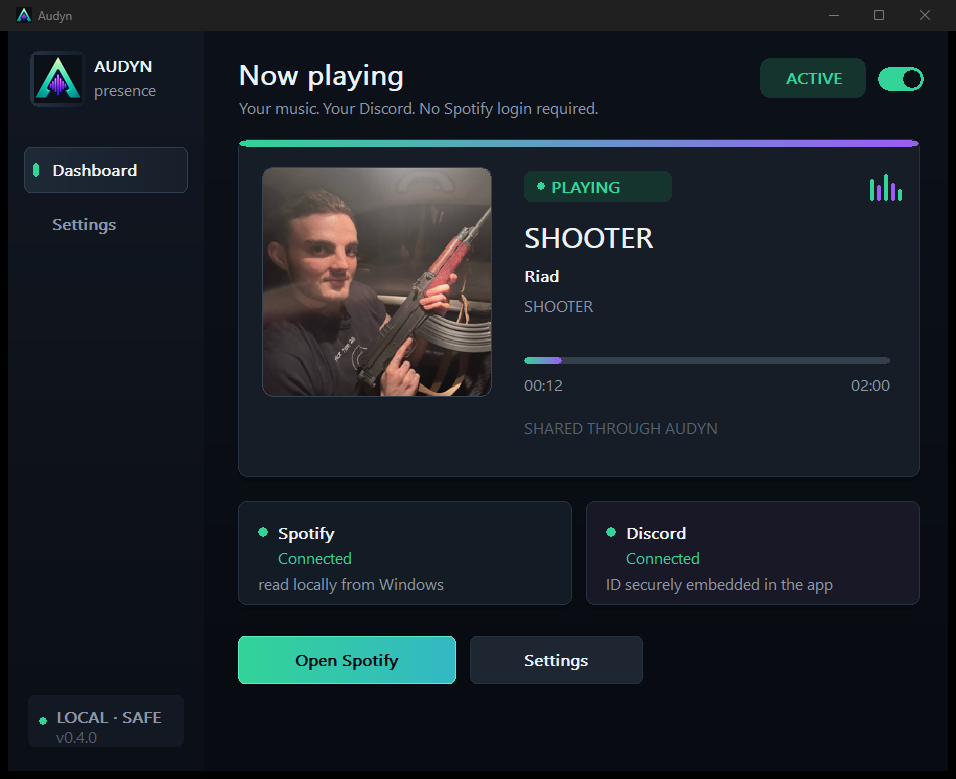
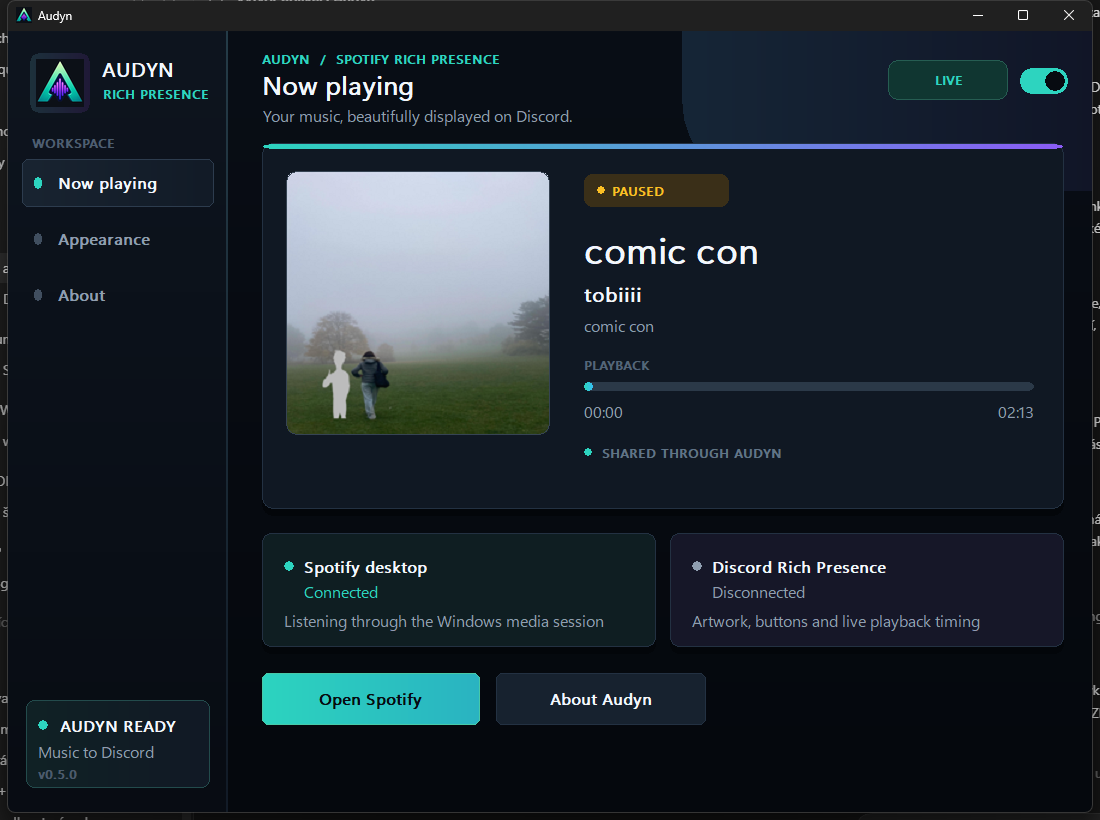
Add files via upload

diff --git a/PRIVACY.md b/PRIVACY.md
@@ -1,0 +1,50 @@
+# Audyn Privacy Notice
+
+Effective for Audyn 0.5.0 and later.
+
+Audyn is designed as a local-first Spotify presence companion. It does not create an Audyn account and does not connect a Spotify account to a Discord account.
+
+## Data Audyn reads locally
+
+Audyn reads the Now Playing information exposed by the Spotify desktop application through Windows Media Session. This can include the track title, artist, album, playback state, playback position, duration, and local thumbnail.
+
+This information is processed in memory so Audyn can draw its interface and prepare Discord Rich Presence. Audyn does not request access to a Spotify password, Spotify access token, Discord password, Discord token, email address, playlists, private messages, friends, payment information, or account settings.
+
+## Discord communication
+
+Rich Presence is sent to the Discord desktop application through Discord's local RPC named pipe. Audyn does not call the Discord account API and does not operate a remote presence server.
+
+The displayed Presence can contain the current track title, artist, album, playback time, a public artwork URL, and fixed buttons. Visibility to other Discord users is controlled by Discord and by the Presence controls in Audyn.
+
+## Optional online artwork lookup
+
+When **Optional cover lookup** is enabled, Audyn sends the current artist and track title to Deezer's public search endpoint over HTTPS. Audyn uses the response only to find a public album-cover URL. Results are accepted only from the approved `dzcdn.net` image domain and only after metadata matching.
+
+This feature can be disabled at any time in **Privacy center**. With it disabled, Audyn continues to work but Discord may show the Audyn artwork instead of the album cover.
+
+## Advertising metadata
+
+Audyn attempts to detect advertisement and non-music sessions before any artwork lookup or Discord publication. When an advertisement is detected, Rich Presence is cleared.
+
+## Local storage
+
+Audyn stores settings, operational diagnostics, and cached artwork under:
+
+```text
+%LOCALAPPDATA%\Audyn\
+```
+
+Version 0.5.0 does not write track titles, artist names, or album names to diagnostic logs. Logs are size-limited and rotated. Cached covers can be cleared immediately or automatically when Audyn exits.
+
+## Telemetry and sale of data
+
+Audyn contains no analytics SDK, advertising SDK, crash-upload service, user profiling, or Audyn-operated backend. Audyn does not sell personal data.
+
+## User controls
+
+Users can disable Rich Presence, hide individual metadata fields, disable the online cover lookup, hide Presence while paused, clear cached covers, or remove all Audyn local data by deleting `%LOCALAPPDATA%\Audyn` after closing the application.
+
+## Third-party services
+
+Spotify, Discord, Deezer, Microsoft, and GitHub operate under their own terms and privacy notices. Audyn is an independent project and is not affiliated with or endorsed by those companies.
+

diff --git a/MICROSOFT-TRUST.md b/MICROSOFT-TRUST.md
@@ -1,0 +1,46 @@
+# Microsoft Trust and Distribution Status
+
+## Current status
+
+Audyn 0.5.0 is prepared for Authenticode signing and Microsoft Store submission, but a build must not be described as **Microsoft certified**, **Microsoft signed**, or **verified publisher** unless that exact build has completed the corresponding external process.
+
+The application checks its own executable signature and displays the result in **Privacy center**:
+
+- **AUTHENTICODE VERIFIED** means Windows validated a trusted publisher signature on that executable;
+- **SIGNING PENDING** means the executable is not currently trusted as a signed publisher build.
+
+A SHA-256 checksum verifies file integrity. It does not replace a trusted publisher signature and does not constitute Microsoft certification.
+
+## Recommended Microsoft Store path
+
+Microsoft recommends MSIX for most new Store submissions. A Store-published MSIX is signed by Microsoft after it passes certification. Completing that process requires action by the project owner:
+
+1. Create a Windows developer account in Partner Center.
+2. Reserve the Audyn product name.
+3. Create an MSIX package and Store listing.
+4. Provide the public privacy notice, descriptions, icons, and screenshots.
+5. Submit the package for Microsoft certification.
+6. Claim Store certification only after Partner Center reports that the submission passed.
+
+Official Microsoft guidance:
+
+- [Get started with Microsoft Store](https://learn.microsoft.com/windows/apps/publish/get-started)
+- [Publish your first Windows app](https://learn.microsoft.com/windows/apps/package-and-deploy/publish-first-app)
+- [Code-signing options for Windows developers](https://learn.microsoft.com/windows/apps/package-and-deploy/code-signing-options)
+
+## Signing direct GitHub releases
+
+For distribution outside Microsoft Store, use a valid organization-validation certificate or Microsoft Artifact Signing. Self-signed certificates are for development only and should not be presented as public trust.
+
+When a trusted certificate is installed in the Windows certificate store, Audyn can be signed with:
+
+```powershell
+.\sign-release.ps1 `
+  -CertificateThumbprint 0123456789ABCDEF0123456789ABCDEF01234567 `
+  -TimestampUrl https://your-certificate-authority.example/timestamp
+```
+
+The script uses Windows SDK SignTool with SHA-256, adds a trusted timestamp, and verifies the resulting Authenticode signature. Protect the signing identity and never commit certificates, private keys, passwords, or signing service credentials to the repository.
+
+Signing identifies the publisher and protects file integrity. It does not make source code impossible to recover and does not prove that software is free of vulnerabilities.
+
